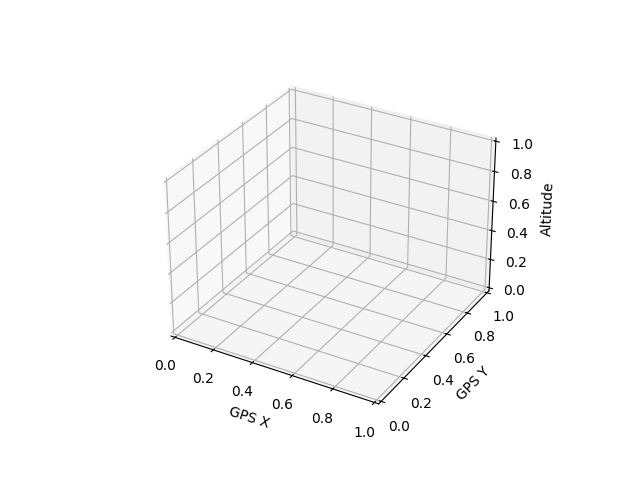
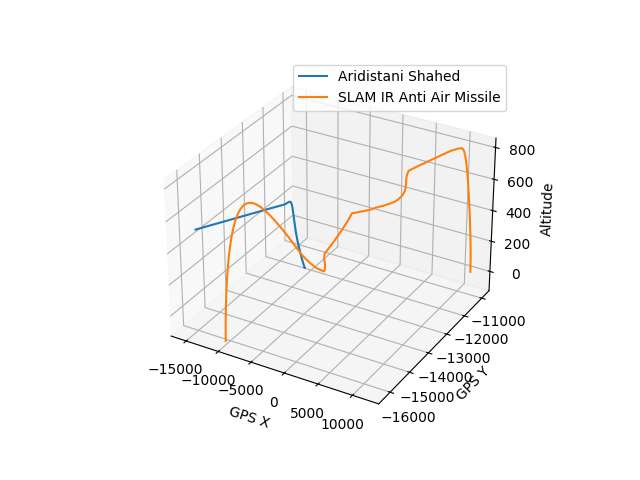
multi target tracking

Changed region(s): [[0.25, 0.125, 0.8438, 0.9062], [0.2188, 0.75, 0.4375, 0.8438]]

diff --git a/HTTP/testing/debug_server.py b/HTTP/testing/debug_server.py
@@ -5,25 +5,34 @@ import time
 import threading
 import matplotlib.pyplot as plt
 
-def plot_shit(trajectory):
-    x = [p[0] for p in trajectory]
-    z = [p[1] for p in trajectory]
-    y = [p[2] for p in trajectory]
+def plot_shit(trajectory0, trajectory1):
+    x0 = [p[0] for p in trajectory0]
+    z0 = [p[1] for p in trajectory0]
+    y0 = [p[2] for p in trajectory0]
 
+    x1 = [p[0] for p in trajectory1]
+    z1 = [p[1] for p in trajectory1]
+    y1 = [p[2] for p in trajectory1]
 
     fig = plt.figure()
     ax = fig.add_subplot(111, projection='3d')
-
-    ax.plot(x, y, z)
+    
+    ax.set_box_aspect((1, 1, 1))
+    
+    ax.plot(x0, y0, z0, label='Aridistani Shahed')
+    ax.plot(x1, y1, z1, label='SLAM IR Anti Air Missile')
     ax.set_xlabel('GPS X')
     ax.set_ylabel('GPS Y')
     ax.set_zlabel('Altitude')
+    ax.legend()
     plt.savefig("graph.png")
     plt.show()
 
 app = Flask('app')
 
-trajectory = [] # This list will store the trajectory points
+trajectory0 = [] # This list will store the trajectory points for target 0
+trajectory1 = [] # This list will store the trajectory points for target 1
+
 missile_hit = False
 missile_launched = False
 last_update_time = time.time()
@@ -34,7 +43,7 @@ def monitor_timeout():
         if time.time() - last_update_time > 5 and not missile_hit and missile_launched:
             missile_hit = True
             print("Missile has hit the target (timeout)")
-            plot_shit(trajectory)
+            plot_shit(trajectory0, trajectory1)
         time.sleep(1)
 
 @app.route('/updatePosition') # This function can be called to update the position
@@ -42,11 +51,20 @@ def updatePosition():
     global missile_return, missile_hit, last_update_time, missile_launched
     missile_launched = True
     missile_return = True
+    
     current_x = request.args.get('x')
     current_y = request.args.get('y')
     current_z = request.args.get('z')
-    trajectory.append((float(current_x), float(current_y), float(current_z))) # Store the position as a tuple in the trajectory list
-    print(f"Position: {float(current_x):.0f}, {float(current_y):.0f}, {float(current_z):.0f}")
+    identifier = request.args.get('id')
+    
+    if identifier == "0.0":
+        trajectory0.append((float(current_x), float(current_y), float(current_z))) # Store the position as a tuple in the trajectory list
+    
+    elif identifier == "1.0":
+        trajectory1.append((float(current_x), float(current_y), float(current_z))) # Store the position as a tuple in the trajectory list
+        
+    print(f"Position: {float(current_x):.0f}, {float(current_y):.0f}, {float(current_z):.0f}, {identifier}")
+    
     last_update_time = time.time()
     missile_hit = False  # Reset on new update
     return "OK"